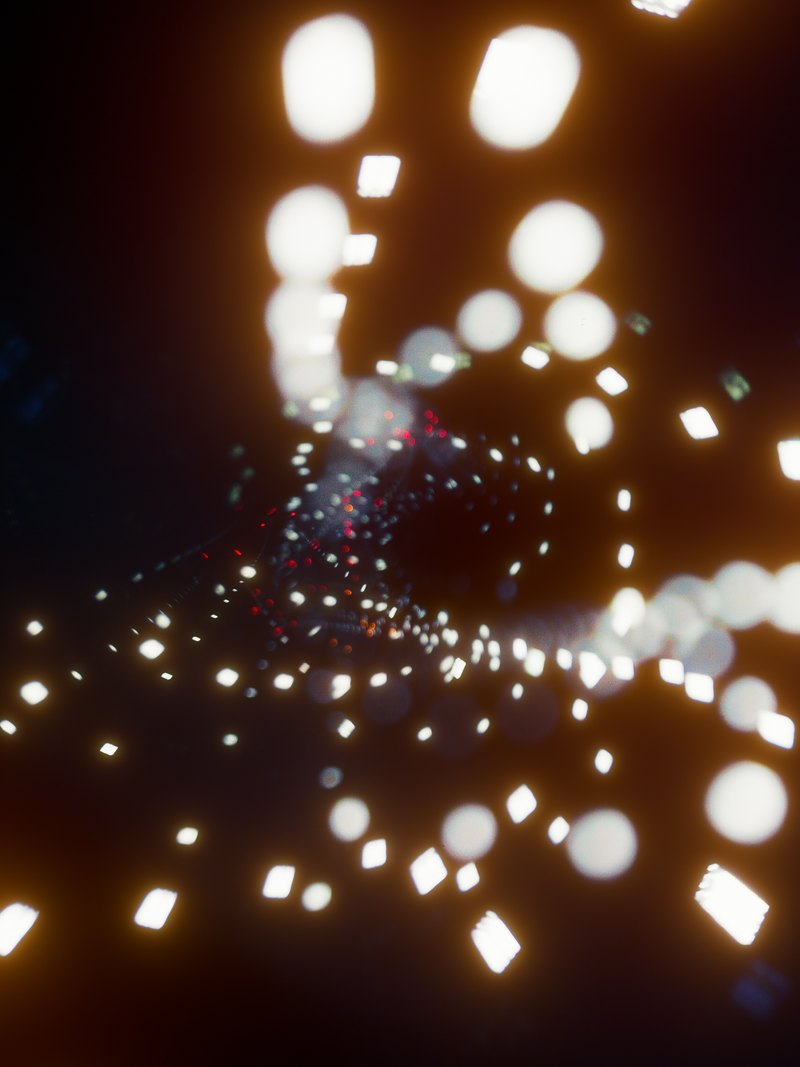
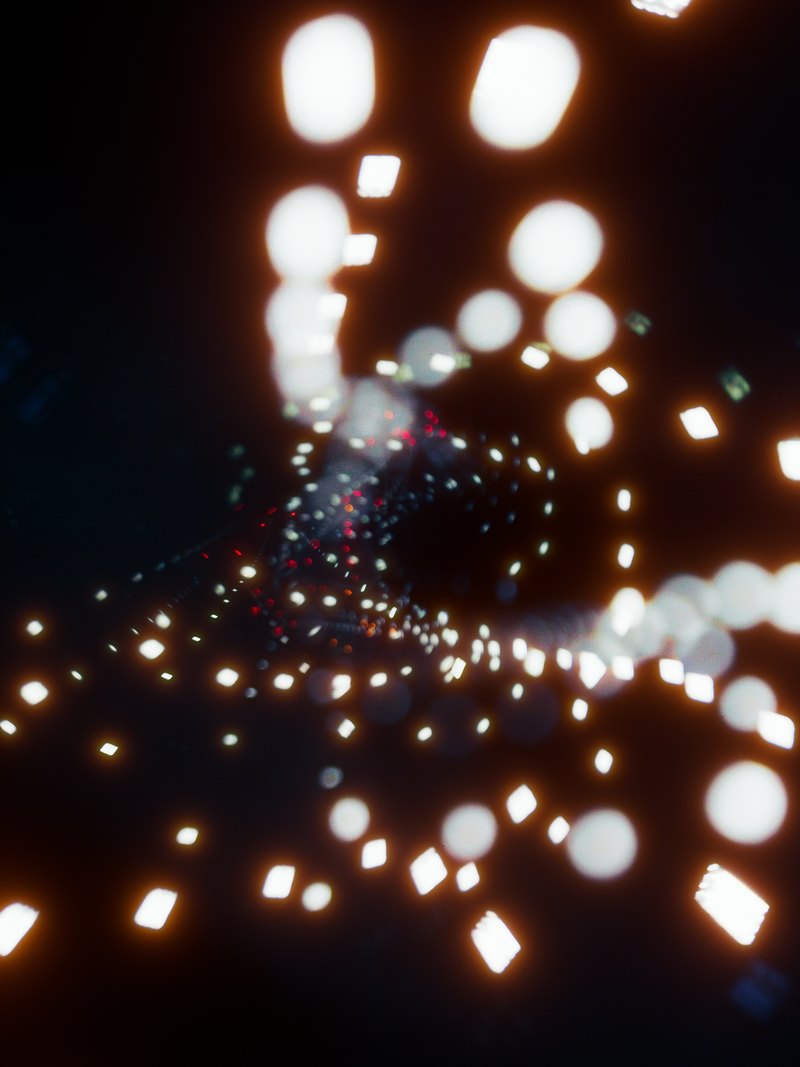
Cook round 5: halation-only renders with Roll-off 0.5 so the blacks stay black, glow-describing captions, Lightroom numbers lead with the verdict, mist as one large switch

diff --git a/index.html b/index.html
@@ -36,13 +36,13 @@
 <header class="sec hero" id="top"><div class="wrap">
 <div class="head head--c rise"><h1>Halation that knows where the light is.</h1><p class="lead">Halo Pro is a halation emulator for the Mac. It puts film’s red-orange glow beside the brightest light in your photograph, where film would put it.</p><div class="acts"><a class="pill" href="https://alriclj.gumroad.com/l/HALO_PRO?variant=Halo%20Pro%20-%20FREE&amp;wanted=true">Download free</a><a class="textlink" href="https://alriclj.gumroad.com/l/HALO_PRO?variant=Halo%20Pro&amp;wanted=true">Buy Pro for €20</a></div><p class="terms">macOS 14 or later on Apple Silicon. Free for personal work, with every control.</p></div>
 </div>
-<div class="stagewide rise"><figure class="flip flip--overlay"><div class="flip-tabs" role="group" aria-label="Which version to show"><button type="button" aria-pressed="false">As opened</button><button type="button" aria-pressed="true">Halo Pro</button></div><div class="flip-frame"><img src="img/cook/hero-opened.jpg" width="1800" height="900" alt="A glass facade at dusk as the file was opened: lit white fins against a dark blue sky" loading="eager" decoding="async"><img class="is-on" src="img/cook/hero-halo.jpg" width="1800" height="900" alt="The same photograph exported from Halo Pro: each lit fin carries a red-orange glow that fades into the dark sky" loading="eager" decoding="async"></div><figcaption class="cap">A lit facade at dusk: the Default look with Format 16 mm and Roll-off 1. Tap the picture to switch.</figcaption></figure></div>
+<div class="stagewide rise"><figure class="flip flip--overlay"><div class="flip-tabs" role="group" aria-label="Which version to show"><button type="button" aria-pressed="false">As opened</button><button type="button" aria-pressed="true">Halo Pro</button></div><div class="flip-frame"><img src="img/cook/hero-opened.jpg" width="1800" height="900" alt="A glass facade at dusk as the file was opened: lit white fins against a dark blue sky" loading="eager" decoding="async"><img class="is-on" src="img/cook/hero-halo.jpg" width="1800" height="900" alt="The same photograph exported from Halo Pro: each lit fin carries a red-orange glow that fades into the dark sky" loading="eager" decoding="async"></div><figcaption class="cap">A lit facade at dusk: halation only, Format 16 mm, Roll-off 0.5. Tap the picture to switch.</figcaption></figure></div>
 </header>
 <section class="sec" id="app"><div class="wrap"><div class="head rise"><h2>Set the glow in one window.</h2><p class="lead">Open a TIFF, PNG or JPEG, set how much light comes back and how far it spreads, and export.</p></div></div><div class="window rise"><div class="win-bar" aria-hidden="true"><i></i><i></i><i></i><span>Halo Pro</span></div><picture><source media="(max-width: 700px)" srcset="img/cook/window-phone.jpg"><img src="img/cook/window.jpg" width="2400" height="1450" alt="The Halo Pro window: a photograph in the middle, the Halation controls on the right with Amount, Size and Format" loading="lazy" decoding="async"></picture><p class="cap">Halo Pro 2.3 with the same photograph open: the Default look, Format Super 8.</p></div><div class="wrap"><div class="facts rise"><div class="fact"><b>32-bit float</b><span>at every step, from opening the file to writing it out.</span></div><div class="fact"><b>0.9 seconds</b><span>for a 12-megapixel export on an M3 Max.</span></div><div class="fact"><b>Your profile kept</b><span>sRGB, Display P3, Adobe RGB or ProPhoto RGB: the glow looks the same in each.</span></div></div></div></section>
-<section class="sec" id="made"><div class="wrap"><div class="head rise"><h2>Made with Halo Pro.</h2><p class="lead">Photographs exported from Halo Pro.</p></div></div><div class="wrap"><div class="flip-tabs flip-tabs--all" role="group" aria-label="Show every picture as"><button type="button" aria-pressed="false" data-all="0">As opened</button><button type="button" aria-pressed="true" data-all="1">Halo Pro</button></div></div><div class="gallery rise"><div class="row row--21"><figure class="flip flip--quiet"><div class="flip-tabs" role="group" aria-label="Which version to show"><button type="button" aria-pressed="false">As opened</button><button type="button" aria-pressed="true">Halo Pro</button></div><div class="flip-frame"><img src="img/cook/g-fjord-opened.jpg" width="1600" height="1067" alt="Two hands framing a fjord with snowy mountains and a lit town, as opened" loading="lazy" decoding="async"><img class="is-on" src="img/cook/g-fjord-halo.jpg" width="1600" height="1067" alt="Two hands framing a fjord with snowy mountains and a lit town, exported from Halo Pro with a soft red-orange glow beside the lights" loading="lazy" decoding="async"></div><figcaption class="cap">A fjord framed by two hands.</figcaption></figure><figure class="flip flip--quiet"><div class="flip-tabs" role="group" aria-label="Which version to show"><button type="button" aria-pressed="false">As opened</button><button type="button" aria-pressed="true">Halo Pro</button></div><div class="flip-frame"><img src="img/cook/g-trails-opened.jpg" width="800" height="1067" alt="White light trails drawn across a dark frame, as opened" loading="lazy" decoding="async"><img class="is-on" src="img/cook/g-trails-halo.jpg" width="800" height="1067" alt="White light trails drawn across a dark frame, exported from Halo Pro with a soft red-orange glow beside the lights" loading="lazy" decoding="async"></div><figcaption class="cap">Light trails.</figcaption></figure></div><div class="row row--12"><figure class="flip flip--quiet"><div class="flip-tabs" role="group" aria-label="Which version to show"><button type="button" aria-pressed="false">As opened</button><button type="button" aria-pressed="true">Halo Pro</button></div><div class="flip-frame"><img src="img/cook/g-lights-opened.jpg" width="800" height="1067" alt="Out-of-focus lights on black, as opened" loading="lazy" decoding="async"><img class="is-on" src="img/cook/g-lights-halo.jpg" width="800" height="1067" alt="Out-of-focus lights on black, exported from Halo Pro with a soft red-orange glow beside the lights" loading="lazy" decoding="async"></div><figcaption class="cap">Lights at night.</figcaption></figure><figure class="flip flip--quiet"><div class="flip-tabs" role="group" aria-label="Which version to show"><button type="button" aria-pressed="false">As opened</button><button type="button" aria-pressed="true">Halo Pro</button></div><div class="flip-frame"><img src="img/cook/g-water-opened.jpg" width="1600" height="1067" alt="A figure with an oar against the sun on water, the shoreline lit, as opened" loading="lazy" decoding="async"><img class="is-on" src="img/cook/g-water-halo.jpg" width="1600" height="1067" alt="A figure with an oar against the sun on water, the shoreline lit, exported from Halo Pro with a soft red-orange glow beside the lights" loading="lazy" decoding="async"></div><figcaption class="cap">Low sun on water.</figcaption></figure></div></div><div class="wrap"><p class="cap gallery-note">All four: the Default look (Mist at Density 0.30, Warmth on highlights 1) with Format 16 mm and Roll-off 1, exported as it came out.</p></div></section>
-<section class="sec" id="light"><div class="wrap"><div class="head rise"><h2>Bright areas keep their colour.</h2><p class="lead">The usual shortcut blurs everything bright and tints it red, so a pale sky turns pink and a grey wall goes warm. Halo Pro works out where film would send light back: the glow lands beside the lights, and a bright surface gets no red cast.</p></div></div><div class="wrap"><figure class="stack stack--3 rise"><div class="stack-i"><p class="stack-l">As opened</p><img src="img/cook/ridge-opened.jpg" width="1000" height="667" alt="A figure on a ridge against a pale blue-white sky, as opened" loading="lazy" decoding="async"></div><div class="stack-i"><p class="stack-l">Red blur</p><img src="img/cook/ridge-blur.jpg" width="1000" height="667" alt="The same detail through a red blur: the sky behind the figure has turned pink" loading="lazy" decoding="async"></div><div class="stack-i"><p class="stack-l">Halo Pro</p><img src="img/cook/ridge-halo.jpg" width="1000" height="667" alt="The same detail from Halo Pro: the sky is the colour it was, with a red-orange glow along the ridge and the figure" loading="lazy" decoding="async"></div><figcaption class="cap">A figure on a ridge, shown at full size. Red blur: our own render, everything bright blurred and tinted. Halo Pro: halation only, Format 16 mm, Amount 1, Warmth on highlights 0, Mist off.</figcaption></figure></div><div class="stagewide rise"><figure class="flip"><div class="flip-tabs" role="group" aria-label="Which version to show"><button type="button" aria-pressed="false">As opened</button><button type="button" aria-pressed="true">Halo Pro</button></div><div class="flip-frame"><img src="img/cook/hair-opened.jpg" width="1800" height="1011" alt="A skier in a helmet and goggles, backlit, hair blowing out against a blue sky with out-of-focus blue lights, as opened" loading="lazy" decoding="async"><img class="is-on" src="img/cook/hair-halo.jpg" width="1800" height="1011" alt="The same photograph from Halo Pro: the backlit hair carries a red-orange glow; the helmet, the sky and the blue lights are as they were" loading="lazy" decoding="async"></div><figcaption class="cap">Backlit hair, halation only at Format 16 mm, Amount 1, Warmth on highlights 0, Mist off. The helmet, the sky and the blue lights measure the same as opened.</figcaption></figure></div></section>
-<section class="sec" id="lightroom"><div class="wrap"><div class="head rise"><h2>Lightroom has halation now. Compare.</h2><p class="lead">One test file through Lightroom’s Halation at its smallest Spread, and through Halo Pro with a glow a little wider. In Lightroom the light grey turns pink and the cyan almost white, and the red end gets no glow. Halo Pro keeps the bars’ colours and glows red and orange where film would.</p></div></div><div class="wrap"><figure class="stack stack--1 rise"><div class="stack-i"><p class="stack-l">Test file</p><img src="img/cook/bars-source.jpg" width="1808" height="530" alt="Three bars of light on black: a white bar fading to dark, a grey bar with a hot white centre, and a full spectrum from red through blue, green and yellow to orange" loading="lazy" decoding="async"></div><div class="stack-i"><p class="stack-l">Lightroom 10.0</p><img src="img/cook/bars-lightroom.jpg" width="1808" height="530" alt="The bars through Lightroom’s Halation: a pink-red haze around the bright parts, the grey and pale parts of the bars turned pink and white, no glow at the red end" loading="lazy" decoding="async"></div><div class="stack-i"><p class="stack-l">Halo Pro 2.3</p><img src="img/cook/bars-halopro.jpg" width="1808" height="530" alt="The bars through Halo Pro: the bars keep their colours, a red-orange glow at the white end and along the red and orange parts of the spectrum, none at the blue" loading="lazy" decoding="async"></div></figure></div><div class="wrap"><div class="numbers rise"><div class="num"><b>36% <em>/</em> 2.7%</b><span>of the pixels inside the bars changed by more than 8 levels: Lightroom, then Halo Pro.</span></div><div class="num"><b>210 → 253</b><span>A light grey of 210 comes out of Lightroom at 253, 213, 214: pink. Halo Pro leaves it at 210.</span></div><div class="num"><b>0 <em>/</em> 96</b><span>Levels of red glow beside the red end of the spectrum, out of 255: Lightroom, then Halo Pro.</span></div></div><p class="cap">An 8-bit test file 2,048 pixels wide. Lightroom 10.0, Halation, Spread 0, as exported. Halo Pro 2.3, Format Super 8, Amount 1, Warmth on highlights 0, Mist off. Their glows reach 24 and 30 pixels past the white bar.</p></div></section>
-<section class="sec" id="mist"><div class="wrap"><div class="head rise"><h2>Mist, chosen after the shoot.</h2><p class="lead">A mist filter on the lens scatters highlight light into the shadows. Here it is a stage after the halation, and its strength stays open until you export.</p></div></div><div class="wrap"><figure class="stack stack--2 rise"><div class="stack-i"><p class="stack-l">Mist off</p><img src="img/cook/mist-off.jpg" width="1366" height="911" alt="Out-of-focus lights on black with halation only: a red-orange rim on each light and hard black between them" loading="lazy" decoding="async"></div><div class="stack-i"><p class="stack-l">Mist on</p><img src="img/cook/mist-on.jpg" width="1366" height="911" alt="The same export with Mist on: a soft pale veil spreads from the lights across the black" loading="lazy" decoding="async"></div><figcaption class="cap">Lights at night, the same halation in both (Format 16 mm). Mist on: Density 1.00, Spread 50, Softness 1.00. The Default look uses Density 0.30, a much lighter veil.</figcaption></figure></div></section>
+<section class="sec" id="made"><div class="wrap"><div class="head rise"><h2>Made with Halo Pro.</h2><p class="lead">Photographs exported from Halo Pro.</p></div></div><div class="wrap"><div class="flip-tabs flip-tabs--all" role="group" aria-label="Show every picture as"><button type="button" aria-pressed="false" data-all="0">As opened</button><button type="button" aria-pressed="true" data-all="1">Halo Pro</button></div></div><div class="gallery rise"><div class="row row--21"><figure class="flip flip--quiet"><div class="flip-tabs" role="group" aria-label="Which version to show"><button type="button" aria-pressed="false">As opened</button><button type="button" aria-pressed="true">Halo Pro</button></div><div class="flip-frame"><img src="img/cook/g-fjord-opened.jpg" width="1600" height="1067" alt="Two hands framing a fjord with snowy mountains and a lit town, as opened" loading="lazy" decoding="async"><img class="is-on" src="img/cook/g-fjord-halo.jpg" width="1600" height="1067" alt="Two hands framing a fjord with snowy mountains and a lit town, exported from Halo Pro with a red-orange glow beside the lights" loading="lazy" decoding="async"></div><figcaption class="cap">The glow wraps the fingers where the bright valley meets them.</figcaption></figure><figure class="flip flip--quiet"><div class="flip-tabs" role="group" aria-label="Which version to show"><button type="button" aria-pressed="false">As opened</button><button type="button" aria-pressed="true">Halo Pro</button></div><div class="flip-frame"><img src="img/cook/g-lights-opened.jpg" width="800" height="1067" alt="Out-of-focus lights on black, as opened" loading="lazy" decoding="async"><img class="is-on" src="img/cook/g-lights-halo.jpg" width="800" height="1067" alt="Out-of-focus lights on black, exported from Halo Pro with a red-orange glow beside the lights" loading="lazy" decoding="async"></div><figcaption class="cap">Each light gets its own halo; the black between stays black.</figcaption></figure></div><div class="row row--12"><figure class="flip flip--quiet"><div class="flip-tabs" role="group" aria-label="Which version to show"><button type="button" aria-pressed="false">As opened</button><button type="button" aria-pressed="true">Halo Pro</button></div><div class="flip-frame"><img src="img/cook/g-tree-opened.jpg" width="800" height="1067" alt="A tree on a slope with the sun shining through its crown, as opened" loading="lazy" decoding="async"><img class="is-on" src="img/cook/g-tree-halo.jpg" width="800" height="1067" alt="A tree on a slope with the sun shining through its crown, exported from Halo Pro with a red-orange glow beside the lights" loading="lazy" decoding="async"></div><figcaption class="cap">The bright sky spills red into the edge of the crown.</figcaption></figure><figure class="flip flip--quiet"><div class="flip-tabs" role="group" aria-label="Which version to show"><button type="button" aria-pressed="false">As opened</button><button type="button" aria-pressed="true">Halo Pro</button></div><div class="flip-frame"><img src="img/cook/g-water-opened.jpg" width="1600" height="1067" alt="A figure with an oar against the sun on water, the shoreline lit, as opened" loading="lazy" decoding="async"><img class="is-on" src="img/cook/g-water-halo.jpg" width="1600" height="1067" alt="A figure with an oar against the sun on water, the shoreline lit, exported from Halo Pro with a red-orange glow beside the lights" loading="lazy" decoding="async"></div><figcaption class="cap">The lit shoreline and the sun on the water glow; the sky does not change colour.</figcaption></figure></div></div><div class="wrap"><p class="cap gallery-note">All four: halation only, Format 16 mm, Amount 1, Roll-off 0.5, Mist off, Warmth on highlights 0.</p></div></section>
+<section class="sec" id="light"><div class="wrap"><div class="head rise"><h2>Bright areas keep their colour.</h2><p class="lead">The usual shortcut blurs everything bright and tints it red, so a pale sky turns pink and a grey wall goes warm. Halo Pro works out where film would send light back: the glow lands beside the lights and not on the bright surface itself.</p></div></div><div class="wrap"><figure class="stack stack--3 rise"><div class="stack-i"><p class="stack-l">As opened</p><img src="img/cook/ridge-opened.jpg" width="1000" height="667" alt="A figure on a ridge against a pale blue-white sky, as opened" loading="lazy" decoding="async"></div><div class="stack-i"><p class="stack-l">Red blur</p><img src="img/cook/ridge-blur.jpg" width="1000" height="667" alt="The same detail through a red blur: the sky behind the figure has turned pink" loading="lazy" decoding="async"></div><div class="stack-i"><p class="stack-l">Halo Pro</p><img src="img/cook/ridge-halo.jpg" width="1000" height="667" alt="The same detail from Halo Pro: the sky is the colour it was, with a red-orange glow along the ridge and the figure" loading="lazy" decoding="async"></div><figcaption class="cap">A figure on a ridge, shown at full size. Red blur: our own render, everything bright blurred and tinted. Halo Pro: halation only, Format 16 mm, Amount 1, Warmth on highlights 0, Mist off.</figcaption></figure></div><div class="stagewide rise"><figure class="flip"><div class="flip-tabs" role="group" aria-label="Which version to show"><button type="button" aria-pressed="false">As opened</button><button type="button" aria-pressed="true">Halo Pro</button></div><div class="flip-frame"><img src="img/cook/hair-opened.jpg" width="1800" height="1011" alt="A skier in a helmet and goggles, backlit, hair blowing out against a blue sky with out-of-focus blue lights, as opened" loading="lazy" decoding="async"><img class="is-on" src="img/cook/hair-halo.jpg" width="1800" height="1011" alt="The same photograph from Halo Pro: the backlit hair carries a red-orange glow; the helmet, the sky and the blue lights are as they were" loading="lazy" decoding="async"></div><figcaption class="cap">Backlit hair, halation only at Format 16 mm, Amount 1, Warmth on highlights 0, Mist off. The helmet, the sky and the blue lights measure the same as opened.</figcaption></figure></div></section>
+<section class="sec" id="lightroom"><div class="wrap"><div class="head rise"><h2>Beside Lightroom’s Halation.</h2><p class="lead">One test file through Lightroom’s Halation at its smallest Spread, and through Halo Pro with a glow a little wider. In Lightroom the light grey turns pink and the cyan almost white, and the red end gets no glow. Halo Pro keeps the bars’ colours and glows red and orange where film would.</p></div></div><div class="wrap"><figure class="stack stack--1 rise"><div class="stack-i"><p class="stack-l">Test file</p><img src="img/cook/bars-source.jpg" width="1808" height="530" alt="Three bars of light on black: a white bar fading to dark, a grey bar with a hot white centre, and a full spectrum from red through blue, green and yellow to orange" loading="lazy" decoding="async"></div><div class="stack-i"><p class="stack-l">Lightroom 10.0</p><img src="img/cook/bars-lightroom.jpg" width="1808" height="530" alt="The bars through Lightroom’s Halation: a pink-red haze around the bright parts, the grey and pale parts of the bars turned pink and white, no glow at the red end" loading="lazy" decoding="async"></div><div class="stack-i"><p class="stack-l">Halo Pro 2.3</p><img src="img/cook/bars-halopro.jpg" width="1808" height="530" alt="The bars through Halo Pro: the bars keep their colours, a red-orange glow at the white end and along the red and orange parts of the spectrum, none at the blue" loading="lazy" decoding="async"></div></figure></div><div class="wrap"><div class="numbers rise"><div class="num"><b>36% <em>/</em> 2.7%</b><span>Lightroom recolours the bars themselves: the share of their pixels moved by more than 8 levels, Lightroom then Halo Pro.</span></div><div class="num"><b>210 → 253</b><span>Lightroom turns a light grey pink: 210 comes out at 253, 213, 214. Halo Pro leaves it at 210.</span></div><div class="num"><b>0 <em>/</em> 96</b><span>Red light gets no glow in Lightroom. Levels of red glow beside the red end, out of 255: Lightroom then Halo Pro.</span></div></div><p class="cap">An 8-bit test file 2,048 pixels wide. Lightroom 10.0, Halation, Spread 0, as exported. Halo Pro 2.3, Format Super 8, Amount 1, Warmth on highlights 0, Mist off. Their glows reach 24 and 30 pixels past the white bar.</p></div></section>
+<section class="sec" id="mist"><div class="wrap"><div class="head rise"><h2>Mist, chosen after the shoot.</h2><p class="lead">A mist filter on the lens scatters highlight light into the shadows. Here it is a stage after the halation, and its strength stays open until you export.</p></div></div><div class="stagewide rise"><figure class="flip flip--overlay"><div class="flip-tabs" role="group" aria-label="Which version to show"><button type="button" aria-pressed="false">Mist off</button><button type="button" aria-pressed="true">Mist on</button></div><div class="flip-frame"><img src="img/cook/mist-off.jpg" width="1366" height="911" alt="Out-of-focus lights on black with halation only: a red-orange rim on each light and hard black between them" loading="lazy" decoding="async"><img class="is-on" src="img/cook/mist-on.jpg" width="1366" height="911" alt="The same export with Mist on: a soft pale veil spreads from the lights across the black" loading="lazy" decoding="async"></div><figcaption class="cap">Lights at night, the same halation in both (Format 16 mm). Mist on: Density 1.00, Spread 50, Softness 1.00. The Default look uses Density 0.30, a much lighter veil.</figcaption></figure></div></section>
 <section class="sec" id="workflow"><div class="wrap"><div class="head rise"><h2>Fits anywhere a TIFF does.</h2><p class="lead">Use it at the end of the edit or in the middle of a grade. Open a 16-bit or 32-bit float TIFF and export at 16 bits or as 32-bit float.</p></div></div><div class="wrap"><ol class="chain rise" aria-label="Where Halo Pro sits"><li><b>Raw developer</b><span>or the retouch</span></li><li><b>TIFF</b><span>16-bit or 32-bit float</span></li><li class="is-hp"><b>Halo Pro</b><span>halation, mist</span></li><li><b>TIFF</b><span>same profile</span></li><li><b>Grade, grain</b><span>and delivery</span></li></ol></div><div class="wrap"><div class="rows rise"><div class="row-i"><h3>Round trip</h3><p>From Lightroom Classic, Edit In hands over a TIFF and Save and return writes a 16-bit TIFF back.</p></div><div class="row-i"><h3>Before grain</h3><p>Run it before grain, so the grain sits on top of the glow.</p></div><div class="row-i"><h3>32-bit float</h3><p>A 32-bit float TIFF holds light above white, and there a sun glows more than a white shirt. A 32-bit float export keeps that light, unless a LUT after the mist, or Bloom, clips it.</p></div><div class="row-i"><h3>Volume</h3><p>Batch Mode takes up to 500 files, each with its own settings; Apply to All copies one look across the set.</p></div></div><p class="cap">No raw files: send a TIFF. One .cube LUT sits before the halation or after the mist. The round trip and Batch Mode need Pro.</p></div></section>
 <section class="sec" id="price"><div class="wrap"><div class="head rise"><h2>Free for personal work, €20 for paid.</h2><p class="lead">Bought once, no subscription.</p></div></div><div class="wrap"><div class="plans rise"><div class="plan"><h3>Free</h3><p class="price">€0</p><p>Personal use. Every control and mask view, LUTs and presets, full-resolution export up to 32-bit float. A licence screen at each launch.</p><a class="pill pill--ghost" href="https://alriclj.gumroad.com/l/HALO_PRO?variant=Halo%20Pro%20-%20FREE&amp;wanted=true">Download</a></div><div class="plan plan--main"><h3>Halo Pro</h3><p class="price">€20 <small>once</small></p><p>Paid work, for one person. Adds Lightroom Mode (Edit In, Save and return) and Batch Mode.</p><a class="pill" href="https://alriclj.gumroad.com/l/HALO_PRO?variant=Halo%20Pro&amp;wanted=true">Buy Halo Pro</a></div><div class="plan"><h3>Organisation</h3><p class="price">€60 <small>once</small></p><p>Studios and companies, for several people. Everything in Halo Pro.</p><a class="pill pill--ghost" href="https://alriclj.gumroad.com/l/HALO_PRO?variant=Halo%20Pro%20-%20Organisation&amp;wanted=true">Buy for an organisation</a></div></div><div class="small-print"><p>macOS 14 Sonoma or later on a Mac with Apple Silicon (M1 or newer). Up to 100 MP and 500 MB per file. Signed, and notarised by Apple.</p><p>Halo Pro 2.3 is a beta, and updates are free. Two known limits: very fine diagonal stripes (blinds, grilles, fine cloth) can show broad orange and grey bands in the glow, and very big glows (Size above about 5) can land unevenly on faces and trees.</p></div><details class="more"><summary>Install, upgrading and what is coming</summary><div class="more-body"><p>Open the DMG from Gumroad and drag Halo Pro to Applications. To activate Pro, enter the licence key from your Gumroad download page under Settings › Help › Enter License Key. It is checked online once, then works offline.</p><p>2.3 is a free update for everyone who has 1.x or an earlier 2.x beta: it is in your Gumroad library, and your key still works.</p><p>Coming next, without dates: a new control panel with Film and Creative sections and starting looks; a better big glow, a halation ring, light streaks, an oval glow and a white bloom; raw, DNG and HEIC opened directly, and more export colour spaces.</p><p>Settings › Help › Report Bug copies a report with the log; paste it into an email.</p><p>A digital download has no refunds.</p></div></details></div></section>
 </main>
@@ -64,7 +64,7 @@ document.querySelectorAll('.flip').forEach(f => {
   if (f.classList.contains('flip--quiet') || matchMedia('(prefers-reduced-motion: reduce)').matches) return;
   new IntersectionObserver(es => {
     if (touched) return;
-    if (es[0].isIntersecting && !timer) { show(0); timer = setInterval(() => show((i + 1) % imgs.length), 2400); }
+    if (es[0].isIntersecting && !timer) { timer = setInterval(() => show((i + 1) % imgs.length), 2600); }
     else if (!es[0].isIntersecting) { stop(); show(imgs.length - 1); }
   }, { threshold: .5 }).observe(frame);
 });
